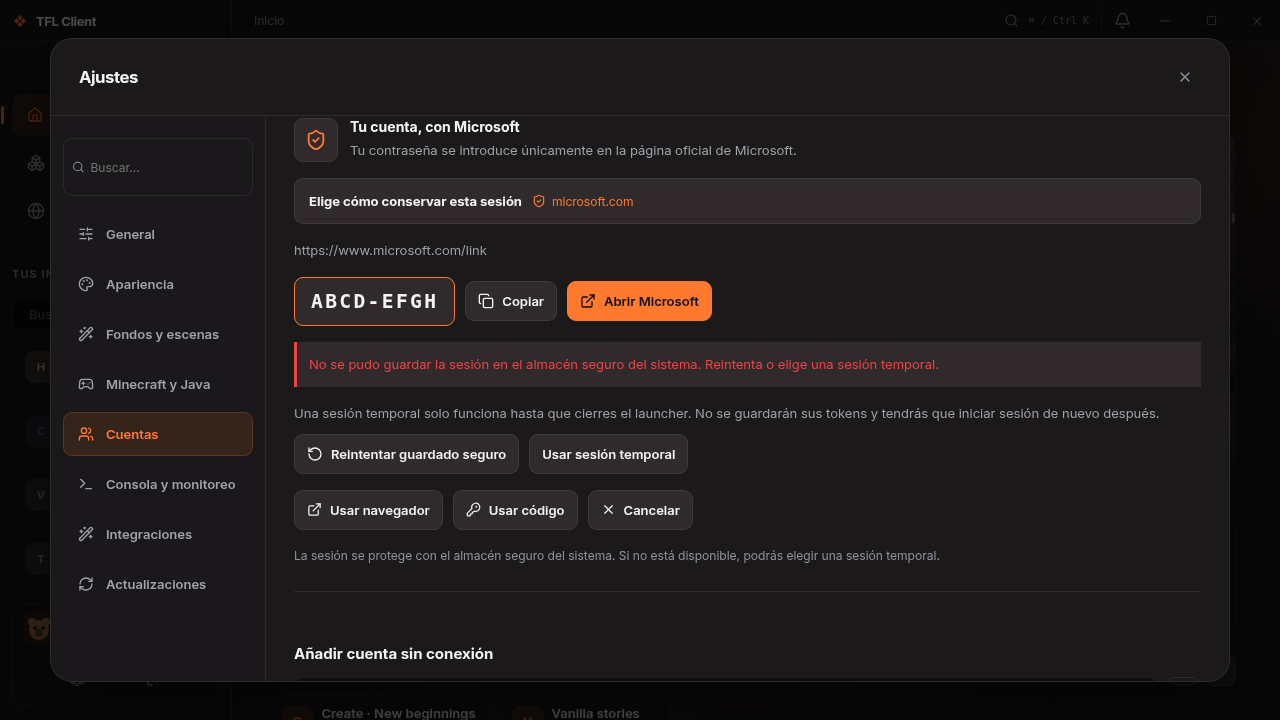
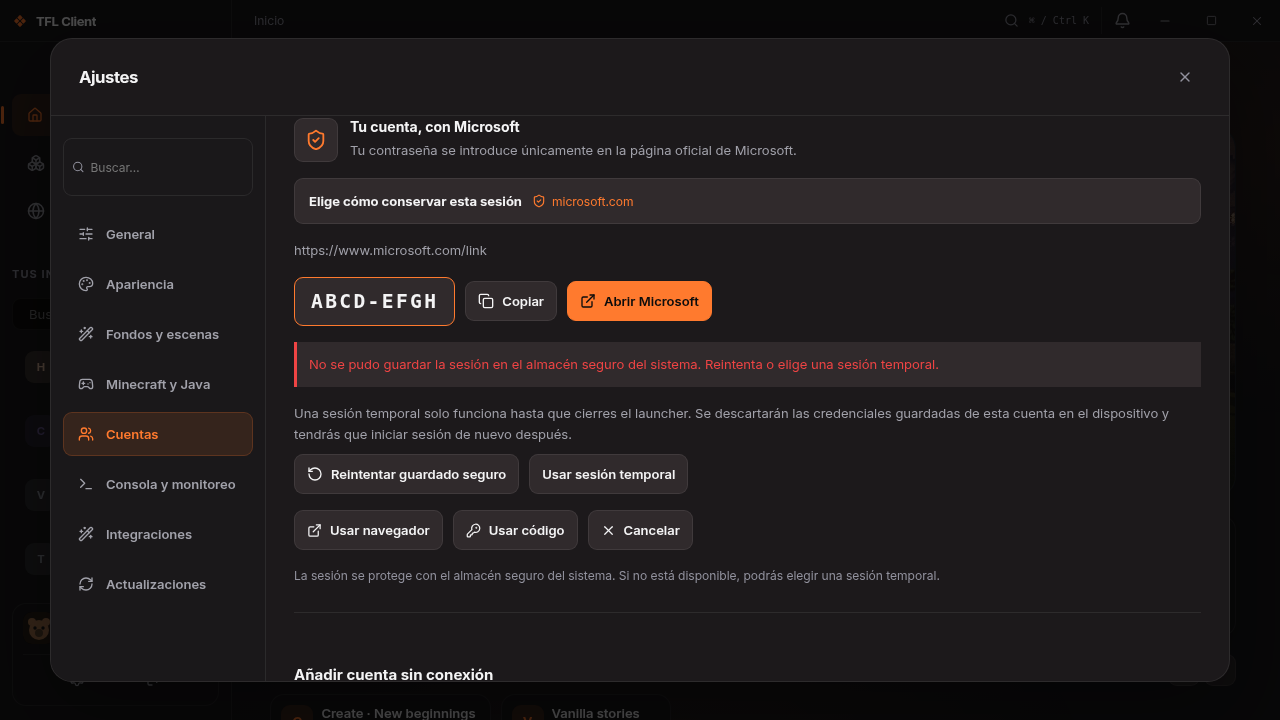
fix(auth): discard partial credentials before explicit temporary sessions

diff --git a/src/lib/components/auth/MicrosoftSignIn.svelte b/src/lib/components/auth/MicrosoftSignIn.svelte
@@ -206,8 +206,8 @@
 		<div class="auth-storage">
 			<p>
 				{text(
-					'Una sesión temporal solo funciona hasta que cierres el launcher. No se guardarán sus tokens y tendrás que iniciar sesión de nuevo después.',
-					'A temporary session lasts only until you close the launcher. Its tokens will not be saved and you will need to sign in again afterwards.'
+					'Una sesión temporal solo funciona hasta que cierres el launcher. Se descartarán las credenciales guardadas de esta cuenta en el dispositivo y tendrás que iniciar sesión de nuevo después.',
+					'A temporary session lasts only until you close the launcher. Saved credentials for this account on this device will be discarded and you will need to sign in again afterwards.'
 				)}
 			</p>
 			<button type="button" disabled={starting} onclick={() => storage(false)}

diff --git a/src/lib/i18n/auth.ts b/src/lib/i18n/auth.ts
@@ -1,6 +1,10 @@
 import { i18nState } from './index.svelte';
 export const authText = (es: string, en: string) => (i18nState.locale === 'en' ? en : es);
 const errors: Record<string, [string, string]> = {
+	MICROSOFT_CONSENT_REQUIRED: [
+		'Microsoft no concedió una sesión renovable. Vuelve a autorizar el acceso o consulta la configuración de la aplicación.',
+		'Microsoft did not grant a renewable session. Authorize access again or review the application configuration.'
+	],
 	AUTH_CANCELLED: ['Inicio de sesión cancelado.', 'Sign-in cancelled.'],
 	AUTH_TIMEOUT: [
 		'La autorización caducó. Inicia un nuevo intento.',

diff --git a/crates/launchwerk/src/auth/storage.rs b/crates/launchwerk/src/auth/storage.rs
@@ -135,12 +135,53 @@ impl SecureStorage {
             .map_err(|_| failure("SECURE_STORE_UNAVAILABLE"))?;
         let key = Self::key(provider, uuid);
         let path = Self::root()?.join(format!("{key}.enc"));
-        // No record means no need to initialize a potentially unavailable vault.
         if path.exists() {
             OsVault.delete(&key)?;
             fs::remove_file(path)?;
+        } else {
+            // Explicit memory-only cleanup may already have removed ciphertext.
+            // Reclaim any orphan key if the vault is reachable; no token remains
+            // behind such a key, so unavailability alone need not block removal.
+            let _ = OsVault.delete(&key);
         }
         Self::delete_legacy(uuid)
+    }
+    pub(crate) fn discard_for_memory(provider: &str, uuid: &str) -> crate::Result<()> {
+        let _guard = STORAGE_LOCK
+            .lock()
+            .map_err(|_| failure("SECURE_STORE_UNAVAILABLE"))?;
+        Self::discard_at(&Self::root()?, &Self::key(provider, uuid))?;
+        Self::delete_legacy(uuid)
+    }
+    fn discard_at(root: &Path, account: &str) -> crate::Result<()> {
+        if root.exists() && fs::symlink_metadata(root)?.file_type().is_symlink() {
+            return Err(failure("SESSION_PATH_INVALID"));
+        }
+        let target = root.join(format!("{account}.enc"));
+        match fs::remove_file(target) {
+            Ok(()) => {}
+            Err(error) if error.kind() == std::io::ErrorKind::NotFound => {}
+            Err(error) => return Err(error.into()),
+        }
+        let entries = match fs::read_dir(root) {
+            Ok(entries) => entries,
+            Err(error) if error.kind() == std::io::ErrorKind::NotFound => return Ok(()),
+            Err(error) => return Err(error.into()),
+        };
+        let prefix = format!(".{account}-");
+        for entry in entries {
+            let entry = entry?;
+            if entry
+                .file_name()
+                .to_str()
+                .is_some_and(|name| name.starts_with(&prefix) && name.ends_with(".tmp"))
+            {
+                fs::remove_file(entry.path())?;
+            }
+        }
+        // An OS-vault key without any ciphertext cannot restore tokens. Do not
+        // contact a locked/unavailable vault just to use an explicit memory session.
+        Ok(())
     }
     fn vault_key(
         vault: &impl Vault,
@@ -205,7 +246,7 @@ impl SecureStorage {
         let encrypted = cipher
             .encrypt(Nonce::from_slice(&nonce), plain.as_slice())
             .map_err(|_| failure("SESSION_ENCRYPTION_FAILED"))?;
-        let temp = root.join(format!(".{}.tmp", uuid::Uuid::new_v4()));
+        let temp = root.join(format!(".{account}-{}.tmp", uuid::Uuid::new_v4()));
         let result = (|| {
             let mut options = fs::OpenOptions::new();
             options.write(true).create_new(true);
@@ -429,5 +470,24 @@ mod tests {
             SecureStorage::key("yggdrasil:https://example.test", "a")
         );
         assert!(SecureStorage::legacy_path("../outside", "access").is_err());
+    }
+}
+
+#[cfg(test)]
+mod memory_tests {
+    use super::*;
+    #[test]
+    fn temporary_session_discards_partial_persistence_without_vault_access() {
+        let dir = std::env::temp_dir().join(uuid::Uuid::new_v4().to_string());
+        fs::create_dir_all(&dir).unwrap();
+        fs::write(dir.join("account.enc"), b"encrypted-partial-save").unwrap();
+        fs::write(dir.join(".account-fixture.tmp"), b"encrypted-temporary").unwrap();
+        fs::write(dir.join("other.enc"), b"preserve-other-account").unwrap();
+        SecureStorage::discard_at(&dir, "account").unwrap();
+        assert!(!dir.join("account.enc").exists());
+        assert!(!dir.join(".account-fixture.tmp").exists());
+        assert!(dir.join("other.enc").exists());
+        SecureStorage::discard_at(&dir, "account").unwrap();
+        fs::remove_dir_all(dir).unwrap();
     }
 }

diff --git a/crates/launchwerk/src/auth/microsoft.rs b/crates/launchwerk/src/auth/microsoft.rs
@@ -113,6 +113,19 @@ fn send(request: reqwest::blocking::RequestBuilder) -> crate::Result<(u16, serde
 fn decode<T: DeserializeOwned>(json: serde_json::Value) -> crate::Result<T> {
     serde_json::from_value(json).map_err(|_| auth_error("AUTH_RESPONSE_INVALID"))
 }
+fn validate_initial_token(token: &MicrosoftTokenResponse) -> crate::Result<()> {
+    if token.access_token.is_empty() {
+        return Err(auth_error("AUTH_RESPONSE_INVALID"));
+    }
+    if token
+        .refresh_token
+        .as_ref()
+        .is_none_or(|value| value.is_empty())
+    {
+        return Err(auth_error("MICROSOFT_CONSENT_REQUIRED"));
+    }
+    Ok(())
+}
 fn successful(status: u16) -> bool {
     (200..300).contains(&status)
 }
@@ -228,6 +241,7 @@ impl MicrosoftAuth {
             return Err(service_error("microsoft", status, &json));
         }
         let token: MicrosoftTokenResponse = decode(json)?;
+        validate_initial_token(&token)?;
         control.check()?;
         self.complete_login_at(
             &token.access_token,
@@ -287,7 +301,7 @@ impl MicrosoftAuth {
         let client = http()?;
         let start = Instant::now();
         let expires = Duration::from_secs(expires_in.min(900));
-        let mut interval = interval.clamp(5, 60);
+        let mut interval = interval.clamp(5, 900);
         loop {
             control.wait(Duration::from_secs(interval))?;
             if start.elapsed() >= expires {
@@ -301,11 +315,12 @@ impl MicrosoftAuth {
             control.check()?;
             if successful(status) {
                 let token: MicrosoftTokenResponse = decode(json)?;
+                validate_initial_token(&token)?;
                 return self.complete_login(&token.access_token, token.refresh_token, control);
             }
             match json.get("error").and_then(|v| v.as_str()) {
                 Some("authorization_pending") => {}
-                Some("slow_down") => interval = (interval + 5).min(60),
+                Some("slow_down") => interval = interval.saturating_add(5).min(900),
                 _ => return Err(service_error("microsoft", status, &json)),
             }
         }
@@ -674,5 +689,28 @@ mod exchange_tests {
                 .to_string()
                 .contains("NOT_APPROVED")
         );
+    }
+}
+
+#[cfg(test)]
+mod consent_tests {
+    use super::*;
+    #[test]
+    fn missing_offline_consent_does_not_create_an_unusable_saved_account() {
+        let token = MicrosoftTokenResponse {
+            access_token: "fixture-access".into(),
+            refresh_token: None,
+        };
+        assert!(
+            validate_initial_token(&token)
+                .unwrap_err()
+                .to_string()
+                .contains("MICROSOFT_CONSENT_REQUIRED")
+        );
+        let token = MicrosoftTokenResponse {
+            access_token: "fixture-access".into(),
+            refresh_token: Some("fixture-refresh".into()),
+        };
+        assert!(validate_initial_token(&token).is_ok());
     }
 }

diff --git a/src-tauri/src/services/microsoft_login.rs b/src-tauri/src/services/microsoft_login.rs
@@ -132,6 +132,7 @@ pub fn safe_error(error: &str) -> String {
         "AUTH_SERVICE_UNAVAILABLE",
         "AUTH_RESPONSE_INVALID",
         "MICROSOFT_REGISTRATION_ERROR",
+        "MICROSOFT_CONSENT_REQUIRED",
         "MICROSOFT_AUTH_ERROR",
         "MINECRAFT_APP_NOT_APPROVED",
         "MINECRAFT_SERVICES_ERROR",
@@ -319,23 +320,35 @@ async fn persist(a: &Arc<Attempt>, mut user: MinecraftUser, memory: bool) -> Res
     }
     user.session_only = memory;
     a.begin_commit()?;
-    if !memory {
-        let copy = user.clone();
-        let saved = tauri::async_runtime::spawn_blocking(move || copy.save_tokens()).await;
-        if !matches!(saved, Ok(Ok(()))) {
-            let mut state = a.state.lock();
-            state.committing = false;
-            if a.control.check().is_err() {
-                state.snapshot.phase = "expired".into();
-                state.snapshot.error = Some("AUTH_TIMEOUT".into());
-                return Ok(());
-            }
-            state.pending = Some(user);
-            state.snapshot.phase = "storage_required".into();
-            state.snapshot.user_code = None;
-            state.snapshot.error = Some("SECURE_STORE_UNAVAILABLE".into());
+    let copy = user.clone();
+    let saved = tauri::async_runtime::spawn_blocking(move || {
+        if memory {
+            copy.discard_persistent_tokens()
+        } else {
+            copy.save_tokens()
+        }
+    })
+    .await;
+    if !matches!(saved, Ok(Ok(()))) {
+        let mut state = a.state.lock();
+        state.committing = false;
+        if a.control.check().is_err() {
+            state.snapshot.phase = "expired".into();
+            state.snapshot.error = Some("AUTH_TIMEOUT".into());
             return Ok(());
         }
+        state.pending = Some(user);
+        state.snapshot.phase = "storage_required".into();
+        state.snapshot.user_code = None;
+        state.snapshot.error = Some(
+            if memory {
+                "LOCAL_STORAGE_ERROR"
+            } else {
+                "SECURE_STORE_UNAVAILABLE"
+            }
+            .into(),
+        );
+        return Ok(());
     }
     let previous = SettingsManager::snapshot();
     let write = SettingsManager::write(|s| {

diff --git a/crates/launchwerk/src/auth/mod.rs b/crates/launchwerk/src/auth/mod.rs
@@ -100,6 +100,13 @@ impl MinecraftUser {
         }
     }
 
+    /// Explicit user opt-in: remove persisted token blobs even if the OS vault is unavailable.
+    pub fn discard_persistent_tokens(&self) -> crate::Result<()> {
+        if self.user_type == AccountType::Cracked {
+            return Ok(());
+        }
+        SecureStorage::discard_for_memory(&self.provider(), &self.uuid)
+    }
     pub fn forget_tokens(&mut self) {
         use zeroize::Zeroize;
         self.access_token.zeroize();

diff --git a/docs/auth/SECURITY.md b/docs/auth/SECURITY.md
@@ -68,11 +68,18 @@ loading; they are not trusted from a frontend preference update.
 The known weak legacy derivation is read-only. Migration inserts only if no newer
 protected record appeared, verifies storage before removing old files, and preserves
 account metadata on failure. No insecure write fallback exists. A user may explicitly
-choose a memory-only session; after process restart it requires reauthorization.
+choose a memory-only session; persisted token blobs for that account are discarded
+first, including partial-save files, so a failed save cannot leave new tokens while
+claiming memory-only persistence. If cleanup fails, the choice does not report
+success. After process restart it requires reauthorization.
 Account operations and refresh share a lock; disk settings saves are also serialized.
 General settings updates preserve accounts, active selection and onboarding state.
 
-Disconnecting deletes the envelope key, ciphertext and legacy records before removing
+A memory-only choice never needs to contact the vault: removing all token blobs
+already prevents a residual random key from restoring tokens. Such an orphan key
+is reclaimed on later disconnect if the vault is reachable.
+
+Disconnecting deletes protected ciphertext, its vault key and legacy records before removing
 or clearing local credentials. A deletion failure is visible; it is not reported as a
 successful logout. Logout preserves the public account profile and selects offline.
 This is local logout, not a promise to revoke an already running Minecraft process.

diff --git a/docs/auth/OWNER_ES.md b/docs/auth/OWNER_ES.md
@@ -102,7 +102,9 @@ Las preferencias generales no pueden reemplazar el estado de cuentas en memoria.
 
 Sin almacén disponible: desbloquear/configurar el llavero y reintentar, o elegir
 explícitamente **Usar sesión temporal**. La sesión temporal vive en memoria y marca
-el perfil para que al reiniciar exija autorización. Guardar otros ajustes no borra
+el perfil para que al reiniciar exija autorización. La elección explícita descarta
+los blobs de tokens de esa cuenta, incluso si un guardado anterior falló parcialmente;
+si no pueden eliminarse, no se declara una sesión temporal correcta. Guardar otros ajustes no borra
 sus tokens en memoria. No se presenta como guardada permanentemente.
 Si falla el guardado local de perfiles, no se declara éxito; se permite reintentar.
 Al eliminar una cuenta, un fallo al borrar credenciales es visible y conserva la

diff --git a/docs/auth/TESTING.md b/docs/auth/TESTING.md
@@ -91,7 +91,7 @@ an interactive native vault prompt was successfully used on that OS.
 
 ## Local evidence
 
-[Validation summary](evidence/local-validation.json) records 186 Rust library tests,
+[Validation summary](evidence/local-validation.json) records 188 Rust library tests,
 18 Node behavior tests and 13 simulated-IPC browser checks.
 [Browser assertions](evidence/browser.json) list the actual verified interactions.
 
